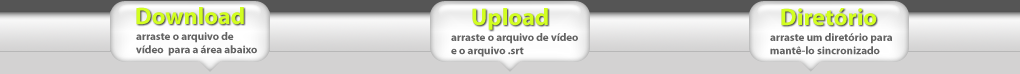
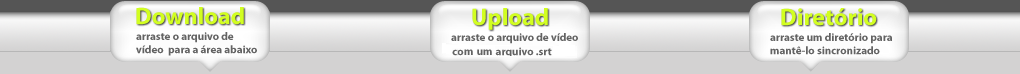
Changed download upload policy for overwritng - now if a srt file exists is uploaded, if not it tries to download it

Changed region(s): [[0.4255, 0.6486, 0.5471, 0.7568]]

diff --git a/libreSubsApplet/src/main/java/org/subtitleDownloadLogic/ActionForDroppedFilesResolver.java b/libreSubsApplet/src/main/java/org/subtitleDownloadLogic/ActionForDroppedFilesResolver.java
@@ -21,17 +21,16 @@ public class ActionForDroppedFilesResolver {
 		this.downloader = downloader;
 		this.uploader = uploader;
 		final List<File> videoFiles = new ArrayList<File>();
-		final List<File> subtitlesFiles = new ArrayList<File>();
 		
 		final Runnable processFile = new Runnable() {
 			@Override
 			public void run() {
 				outputListener.info("Processando "+droppedList);
 				for (final File fileOrDir : droppedList) {
-					sortFiles(outputListener, videoFiles, subtitlesFiles, fileOrDir);
+					sortFiles(outputListener, videoFiles, fileOrDir);
 				}
 				for (final File videoFile : videoFiles) {
-					downloadAndUploadSubtitles(outputListener, subtitlesFiles, videoFile);
+					downloadAndUploadSubtitles(outputListener, videoFile);
 				}
 				outputListener.info("Terminado");
 			};
@@ -49,9 +48,9 @@ public class ActionForDroppedFilesResolver {
 		this(droppedList,downloader,uploader,outputListener,true);
 	}
 
-	private void downloadAndUploadSubtitles(final OutputListener outputListener, final List<File> subtitlesFiles,
+	private void downloadAndUploadSubtitles(final OutputListener outputListener, 
 			final File videoFile) {
-		final File sub = getSubtitleForVideoOnSubtitleListOrNull(videoFile, subtitlesFiles);
+		final File sub = getSubtitleForVideoOnSubtitleListOrNull(videoFile);
 		if(sub == null){
 			downloader.download(outputListener, videoFile);
 		}else{
@@ -63,37 +62,30 @@ public class ActionForDroppedFilesResolver {
 	}
 
 	private void sortFiles(final OutputListener outputListener,
-			final List<File> videoFiles, final List<File> subtitlesFiles,
+			final List<File> videoFiles,
 			final File fileOrDir) {
 		if(fileOrDir.isDirectory()){
 			final File[] filesInDir = fileOrDir.listFiles();
 			for (final File file : filesInDir) {
-				sortFiles(outputListener,videoFiles,subtitlesFiles,file);
+				sortFiles(outputListener,videoFiles,file);
 			}
 			return;
 		}
 		final File file = fileOrDir;
 		final String extension = IOUtils.getExtension(file.getName()).toLowerCase();
-		if(extension.equals(SUBTITLE_EXTENSION)){
-			subtitlesFiles.add(file);
-		}else {
-			for (final String allowedVideoExtension : VIDEO_EXTENSIONS) {
-				if(extension.equals(allowedVideoExtension)){					
-					videoFiles.add(file);
-				}
+		for (final String allowedVideoExtension : VIDEO_EXTENSIONS) {
+			if(extension.equals(allowedVideoExtension)){					
+				videoFiles.add(file);
 			}
 		}
 	}
 
-	private File getSubtitleForVideoOnSubtitleListOrNull(final File videoFile,
-			final List<File> subtitlesFiles) {
-		final String videoName = IOUtils.getBaseName(videoFile.getAbsolutePath()).toLowerCase();
-		for (final File sub : subtitlesFiles) {
-			final String subName = IOUtils.getBaseName(sub.getAbsolutePath()).toLowerCase();
-			if(videoName.equals(subName)){
-				return sub;
-			}
+	private File getSubtitleForVideoOnSubtitleListOrNull(final File videoFile) {
+		final String videoFileWithoutExtension = IOUtils.removeExtension(videoFile.getAbsolutePath());
+		final File subFile = new File(videoFileWithoutExtension+"."+SUBTITLE_EXTENSION);
+		if(!subFile.exists()){
+			return null;
 		}
-		return null;
+		return subFile;
 	}
 }

diff --git a/libreSubsApplet/src/test/java/org/subtitleDownloadLogic/ActionForDroppedFilesResolverTest.java b/libreSubsApplet/src/test/java/org/subtitleDownloadLogic/ActionForDroppedFilesResolverTest.java
@@ -16,7 +16,6 @@ public class ActionForDroppedFilesResolverTest implements OutputListener {
 	public void testActionForDroppedFilesResolver() {
 		final ArrayList<File> filesDropped = new ArrayList<File>();
 		filesDropped.add(new File("/foo/bar.avi"));
-		filesDropped.add(new File("/foo/bar.srt"));
 		
 		final MockDownloaderUploader mockDownloaderUploader = new MockDownloaderUploader();
 		final boolean onSeparateThread = false;
@@ -24,8 +23,8 @@ public class ActionForDroppedFilesResolverTest implements OutputListener {
 		
 		final String downloadList = mockDownloaderUploader.getDownloadList();
 		final String uploadList = mockDownloaderUploader.getUploadList();
-		Assert.assertEquals("[]", downloadList);
-		Assert.assertEquals("[/foo/bar.srt]", uploadList);
+		Assert.assertEquals("[/foo/bar.avi]", downloadList);
+		Assert.assertEquals("[]", uploadList);
 	}
 	
 	@Test
@@ -45,8 +44,8 @@ public class ActionForDroppedFilesResolverTest implements OutputListener {
 		
 		final String downloadList = mockDownloaderUploader.getDownloadList();
 		final String uploadList = mockDownloaderUploader.getUploadList();
-		Assert.assertEquals("["+tempFileAvi.toString()+"]", downloadList);
-		Assert.assertEquals("[]", uploadList);
+		Assert.assertEquals("[]", downloadList);
+		Assert.assertEquals("["+subFile.toString()+"]", uploadList);
 	}
 
 	@Override

diff --git a/libreSubsApplet/src/main/java/org/subtitleDownloadLogic/utils/DownloaderImpl.java b/libreSubsApplet/src/main/java/org/subtitleDownloadLogic/utils/DownloaderImpl.java
@@ -26,9 +26,6 @@ public class DownloaderImpl implements Downloader {
 		return new DownloadedContent(content, contentType);
 	}
 	
-	/* (non-Javadoc)
-	 * @see org.subtitleDownloadLogic.utils.Downloader#download(org.OutputListener, java.io.File)
-	 */
 	@Override
 	public void download(final OutputListener outputListener, final File video) {
 		final String shaHex;
